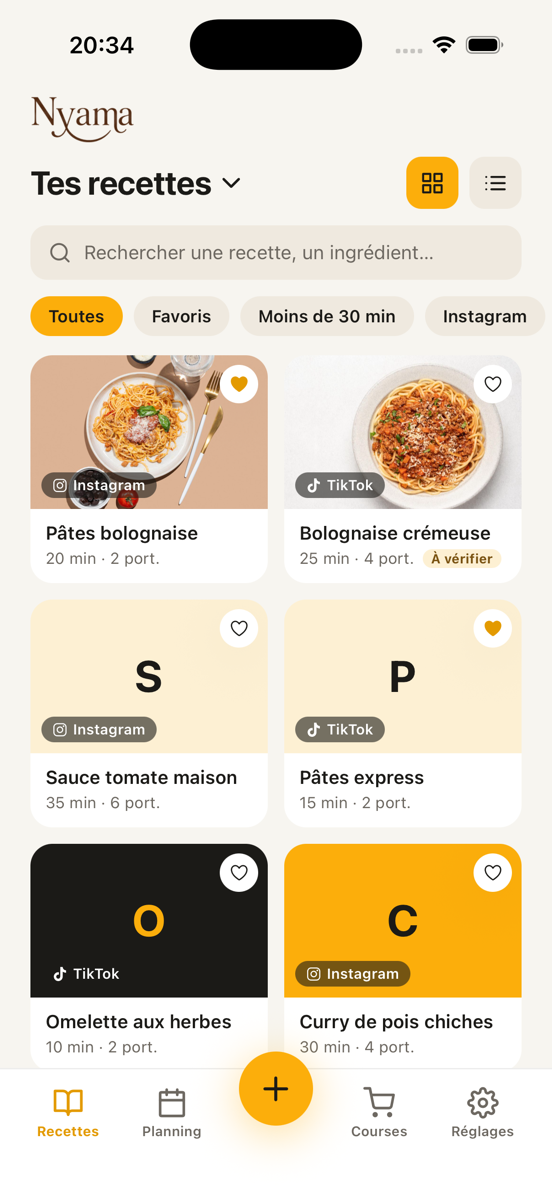
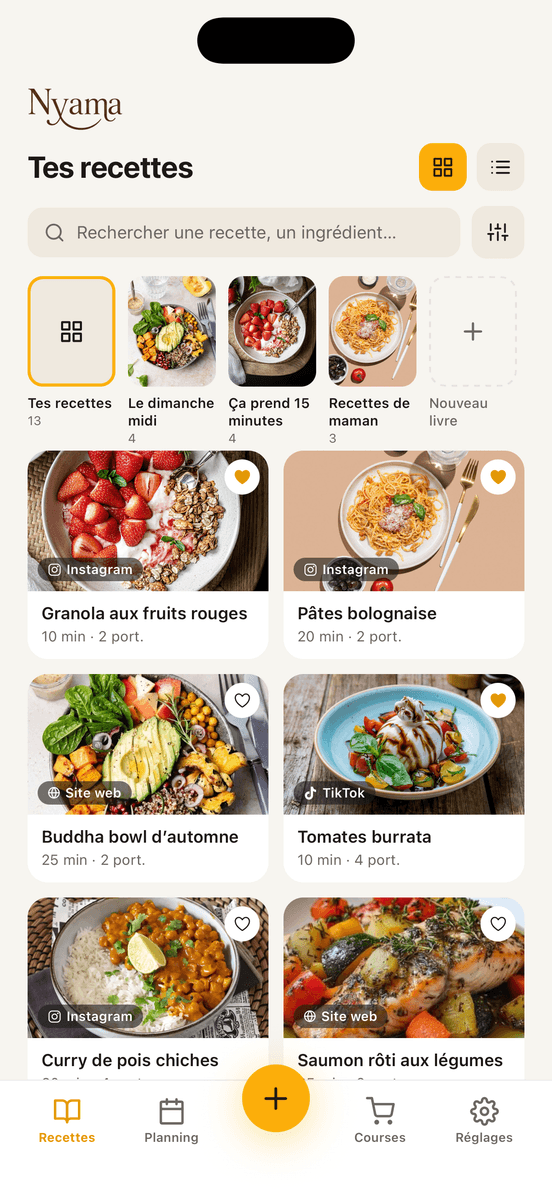
La section « Dans trois ans » montre les livres de recettes
Le deuxième pilier promet des livres de recettes (« les rapides », « pour
recevoir », « ce que les enfants mangent ») — mais la capture qui
l'illustrait ne montrait qu'une grille de recettes. La preuve manquait à
l'endroit exact où le texte l'annonce.

Nouvelle capture (`08-livres-de-recettes`) : la rangée de livres — « Tes
recettes », « Le dimanche midi », « Ça prend 15 minutes », « Recettes de
maman », « Nouveau livre » — au-dessus de la grille, barre de recherche
comprise. Le nom de fichier ne change pas : c'est toujours l'écran « Tes
recettes », montré plus complet.

Ramenée à 552 × 1200, le gabarit exact des quatre autres écrans du site —
le cadre de téléphone est commun, une autre proportion l'aurait déformé.
La capture source faisait 1320 × 2868, de même rapport, donc aucune
déformation.

POIDS. Un redimensionnement naïf donnait 718 Ko. Réencodée avec sharp
(compression 9) : 196 Ko, soit MOINS que les 324 Ko de l'image remplacée.
L'outil est resté hors du dépôt.

L'alt est refait : il décrivait « une grille de recettes » sans un mot des
livres, alors que c'est tout le propos de la section. Il n'est pas traduit
(aucune clé alt dans `_i18n`), donc rien à répercuter sur en/de/es.

`assets/new hero.png` reste NON SUIVI, pour la raison déjà donnée en
25bc423 : le site ne l'utilise pas.

CE QUI N'EST PAS VÉRIFIÉ : le rendu dans la page. Le serveur d'aperçu
local n'a pas voulu démarrer. Contrôlé autrement — le build passe, les 101
[…]

diff --git a/_src/index.html b/_src/index.html
@@ -727,7 +727,7 @@ footer.site { background: var(--sand); padding: 60px 0 40px; }
         <div class="pillar-media">
           <div class="phone">
             <img src="/assets/ecran-bibliotheque.png" loading="lazy"
-                 alt="La bibliothèque « Tes recettes » de Nyama : une grille de recettes avec leur provenance, Instagram ou TikTok, et une barre de recherche.">
+                 alt="La bibliothèque « Tes recettes » de Nyama : une rangée de livres de recettes — « Le dimanche midi », « Ça prend 15 minutes », « Recettes de maman » — au-dessus d'une grille de recettes portant leur provenance, Instagram, TikTok ou site web, et une barre de recherche.">
           </div>
         </div>
       </div>

diff --git a/index.html b/index.html
@@ -707,7 +707,7 @@ footer.site { background: var(--sand); padding: 60px 0 40px; }
         <div class="pillar-media">
           <div class="phone">
             <img src="/assets/ecran-bibliotheque.png" loading="lazy"
-                 alt="La bibliothèque « Tes recettes » de Nyama : une grille de recettes avec leur provenance, Instagram ou TikTok, et une barre de recherche.">
+                 alt="La bibliothèque « Tes recettes » de Nyama : une rangée de livres de recettes — « Le dimanche midi », « Ça prend 15 minutes », « Recettes de maman » — au-dessus d'une grille de recettes portant leur provenance, Instagram, TikTok ou site web, et une barre de recherche.">
           </div>
         </div>
       </div>
